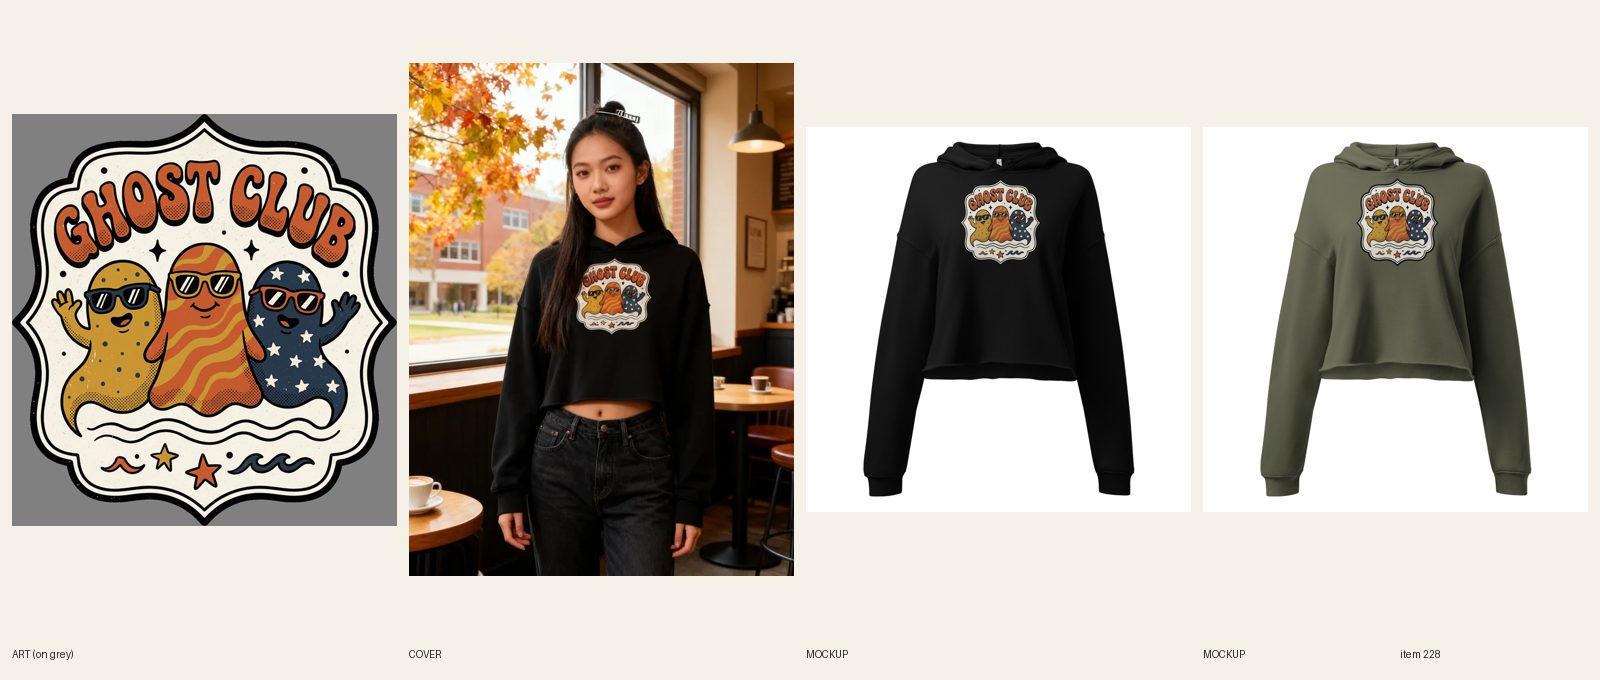
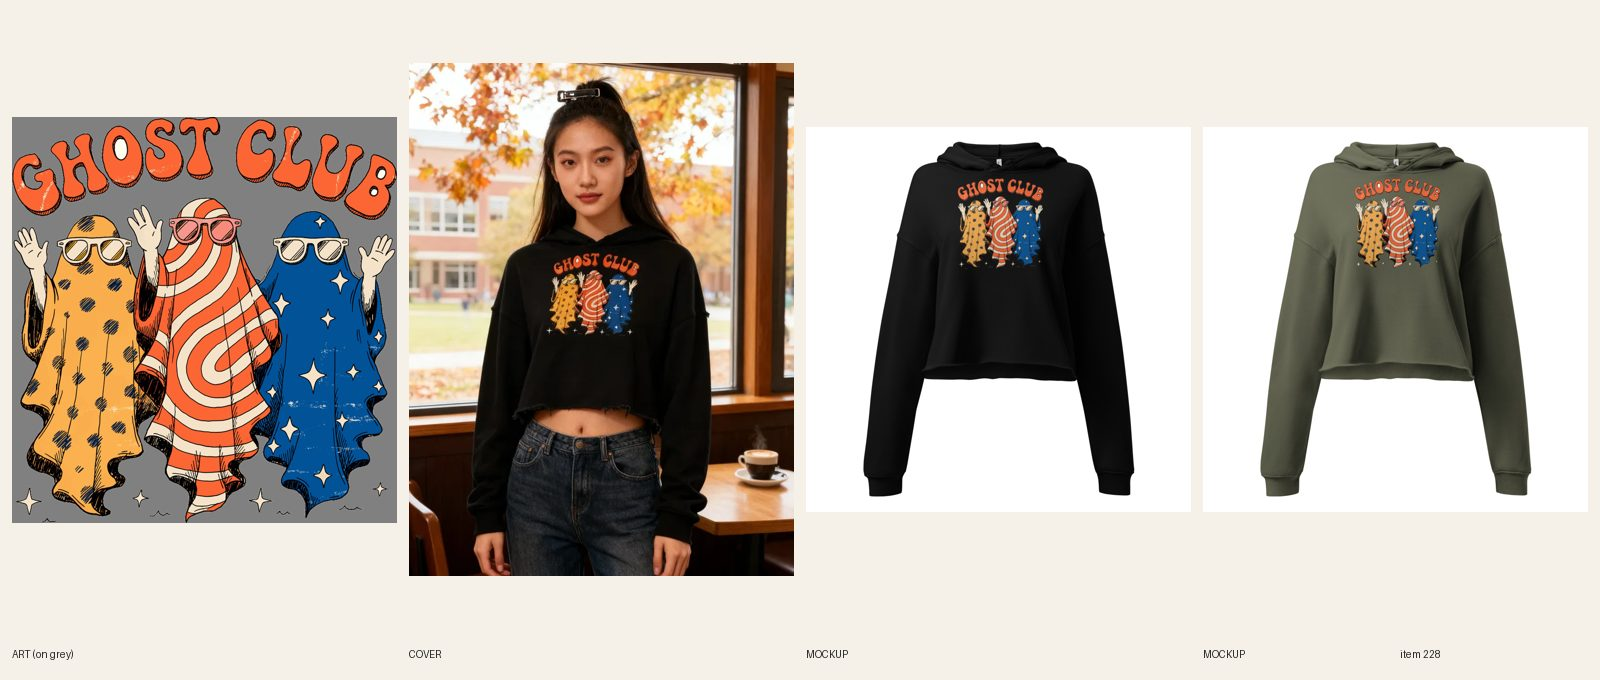
[B] review 227; redo 228 built

Changed region(s): [[0.0, 0.0926, 0.5, 0.8647], [0.8438, 0.2471, 0.9062, 0.4015], [0.5938, 0.2471, 0.6562, 0.4015]]

diff --git a/docs/pipeline/227-horror-oversized-hoodie-night-shift.md b/docs/pipeline/227-horror-oversized-hoodie-night-shift.md
@@ -1,4 +1,4 @@
-status: BUILDING [B] 2026-10-16 22:48
+status: REVIEW
 lane: B
 type: twin
 id: 227
@@ -24,3 +24,4 @@ handle: unisex-horror-night-shift-oversized-hoodie
   2. Redraw (one new Recraft v4 generation, max 2): the glowing jack-o'-lantern under a full moon with the haunted house behind, MIDNIGHT SHOWING in dripping hand-drawn letters, edges breaking up into worn print texture, no box, no spine, no border. Size it to fill the chest (about 12 in wide on the 4719).
   3. Keep the handle; the Story describes only what the new art shows (no 'VHS cover' wording unless the art still shows a tape). New mockups and cover (man AND woman, R6.3).
 - 2026-10-16 22:51 UTC [B]: REDO fix (round 1): redrawn without the case: Recraft v4 try 1 (jack-o'-lantern under a full moon, haunted house with a lit window, bats, MIDNIGHT SHOWING in dripping red hand-drawn letters, no frame/spine/border), print-prep to 3600 px (3600 x 3830), Printful file 1087876776, sized 10 in wide x 10.6 in tall (FW 1500 TOP 0; the front print area is 11 in square, 1650 px), reads on Black and Navy. Mockups replaced in place, copy rewritten (poster / art words only, the matching-tee FAQ dropped because the tee still has the old case art), new cover (registry #300 + #301, image 2 of 3). Set REVIEW at 12/12. Sheet docs/review/227.jpg.
+- 2026-10-16 22:55 UTC [B]: synced 12/12, REVIEW.

diff --git a/docs/pipeline/228-cropped-cropped-hoodie-ghost-club.md b/docs/pipeline/228-cropped-cropped-hoodie-ghost-club.md
@@ -1,4 +1,4 @@
-status: REDO
+status: BUILDING [B] 2026-10-16 22:52
 lane: B
 type: twin
 id: 228
@@ -23,3 +23,4 @@ handle: womens-cropped-ghost-club-cropped-hoodie
 - 2026-10-16 22:17 UTC director: REDO (product stays DRAFT). Notes:
   1. R4.1: GHOST CLUB sits inside a scalloped cream badge with a black outline: badge look, never allowed, twins included.
   2. Redraw frameless (one Recraft generation, max 2): the same three ghosts in sunglasses (mustard dots, orange swirls, navy stars) with GHOST CLUB arched above in hand-drawn retro letters, small stars and waves below, nothing behind them. Check the white sheet shapes print as cream ink, not blank fabric holes (R5.3.8). Copy: drop 'inside a scalloped cream badge'.
+- 2026-10-16 22:55 UTC [B]: REDO fix (round 1): redrawn frameless: Recraft v4 try 1 (three ghosts in sunglasses on plain white, GHOST CLUB arched in orange 70s bubble letters, stars + waves, no badge/panel), print-prep 3600 x 3800, Printful file 1087879144, FW 1150 TOP 0, cream sheet stripes/stars print as cream ink (checked on Black and Military Green), mockups replaced in place, copy rewritten (badge wording gone, matching tee line now says 'same three ghosts'), new cover (registry #302, image 3 of 3). Set REVIEW at 10/10. Sheet docs/review/228.jpg.

diff --git a/docs/intake-log.md b/docs/intake-log.md
@@ -6,6 +6,7 @@
 2026-10-16 21:38 UTC — [A] BUILDING #218 Pink Christmas Trees, #219 O Holy Night, #220 Lit-Up Bow, #221 Christmas Nurse crewnecks (drafts, covers #291-294, mockups, audit PASS; syncs queued). Printful sync is the bottleneck (~1 variant/min shared with lane B): 23 lane A items wait at 0 to 57 variants synced; the runner dies with each container, rerun the setfile commands in each item's log (FORCE=1 only for items not yet synced).
 RUNNING lane A since 2026-10-16 21:15 UTC
 RUNNING lane B since 2026-10-16 21:12 UTC
+2026-10-16 22:55 UTC — [B] #227 redone -> REVIEW; #228 redrawn (sync running).
 2026-10-16 22:52 UTC — [B] REDO fixes: #223 (line erased), #226 (counters knocked out) -> REVIEW; #227 redrawn (sync running).
 2026-10-16 22:41 UTC — [B] REVIEW #194 Morel Support and #195 Purrsonal Space embroidered crewnecks (synced).
 2026-10-16 22:36 UTC — [B] BUILDING #194 Morel Support (REVIEW at sync) and #195 Purrsonal Space embroidered crewnecks; #193 Whisk Taker in REVIEW.
